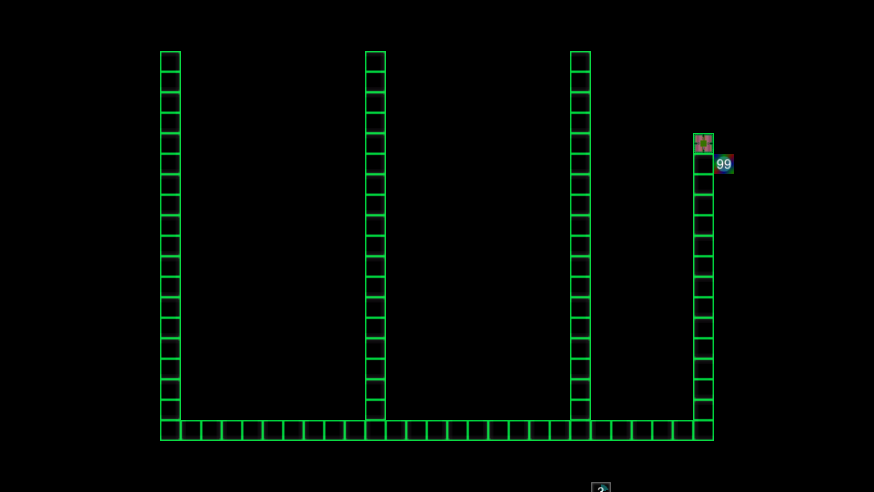
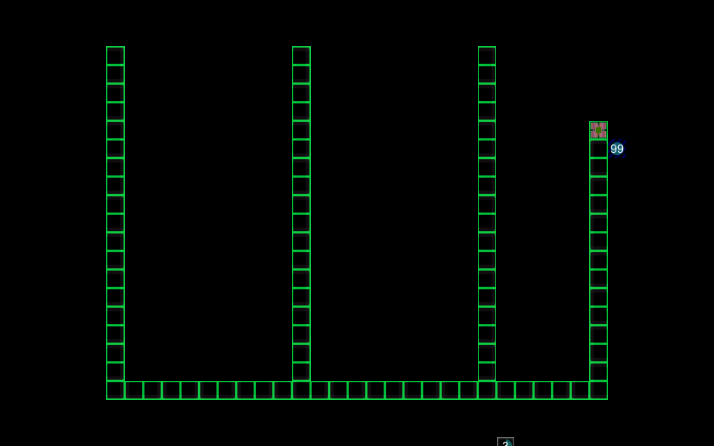
Resonant tower now has three different versions.  Still a bug with decaying towers not weakening their counterparts.

Changed region(s): [[0.1232, 0.0874, 0.8936, 0.9036], [0.6779, 0.9619, 0.7395, 1.0]]

diff --git a/Assets/Scripts/Effects/EffectsCompound.cs b/Assets/Scripts/Effects/EffectsCompound.cs
@@ -1,0 +1,242 @@
+using UnityEngine;
+using System.Collections;
+using System.Collections.Generic;
+using System.Linq;
+using Vexe.Runtime.Types;
+
+//contains effects which are triggered by multiple things and therefore don't really fit into another file
+//note that there are compound effects in other files.  this one is just meant for effects that dont neatly fit elsewhere
+
+//common base for all Resonant effects
+public abstract class BaseEffectResonant : BaseEffect, IEffectOnSpawned, IEffectDeath
+{
+    private static Dictionary<string, List<TowerScript>> resonanceDict; //static container that tracks resonance effects across all towers
+
+    //event to use for resonance changes
+    public delegate void resonanceChangeHandler();
+    public static event resonanceChangeHandler resonanceChangedEvent;
+
+    [Hide] public override TargetingType targetingType { get { return TargetingType.none; } }  //this effect should never be on a card, and thus should never be cast
+    [Hide] public override EffectType    effectType    { get { return EffectType.misc; } } //effect type
+
+    //convenience accessor to reference resonance across all towers with this argument and the same argument
+    protected int resonance
+    {
+        get
+        {
+            List<TowerScript> towersWithSameArgument = null;
+            resonanceDict.TryGetValue(argument, out towersWithSameArgument);
+
+            if (towersWithSameArgument == null)
+                return 0;
+            else
+                return towersWithSameArgument.Count;
+        }
+    }
+
+    public BaseEffectResonant()
+    {
+        if (resonanceDict == null)
+            resonanceDict = new Dictionary<string, List<TowerScript>>();
+    }
+
+    //add triggers for tower spawn/death to track how many towers with this effect are present
+    public override bool triggersAs(EffectType triggerType)
+    {
+        return base.triggersAs(triggerType) || (triggerType == EffectType.spawn) || (triggerType == EffectType.death);
+    }
+
+    //track resonance for new towers
+    public virtual void onTowerSpawned(TowerScript tower)
+    {
+        //list of all towers that already have this argument
+        List<TowerScript> towerList = null;
+        resonanceDict.TryGetValue(argument, out towerList);
+        if (towerList == null)
+            towerList = new List<TowerScript>();
+
+        //add the new tower to it, if it isnt there already
+        if (towerList.Contains(tower) == false)
+            towerList.Add(tower);
+
+        //make that list the new value in the dictionary
+        resonanceDict.Remove(argument); //note that this does nothing if the item is already absent
+        resonanceDict.Add(argument, towerList);
+
+        //fire the event, if it has listeners
+        if (resonanceChangedEvent != null)
+            resonanceChangedEvent();
+    }
+
+    //track resonance for dying towers
+    public virtual void onTowerDeath(TowerScript tower)
+    {
+        //list of all towers that already have this argument
+        List<TowerScript> towerList = null;
+        resonanceDict.TryGetValue(argument, out towerList);
+        if (towerList == null)
+            towerList = new List<TowerScript>();
+
+        //remove this tower from it
+        towerList.Remove(tower); //note that this does nothing if the item is already absent
+
+        //make that list the new value in the dictionary
+        resonanceDict.Remove(argument); //note that this does nothing if the item is already absent
+        resonanceDict.Add(argument, towerList);
+
+        //fire the event, if it has listeners
+        if (resonanceChangedEvent != null)
+            resonanceChangedEvent();
+    }
+
+    //we can ignore these triggers, since they dont apply
+    public virtual void onEnemySpawned(EnemyScript enemy) { }
+    public virtual void onEnemyDeath(EnemyScript e) { }
+}
+
+//tower attack gets X times stronger for each tower that has this effect with the same value for Y
+public class EffectResonantTowerAttackMult : BaseEffectResonant
+{
+    public override string Name { get { return "<" + argument + ">: " + strength + "x damage per other <" + argument + "> tower (" + (resonance - 1) + ")"; } }
+    public override string XMLName { get { return "ResonantTowerAttackMult"; } }
+
+    //private tracking
+    private TowerScript t;
+    private float attackBonus = 0.0f;
+
+    //add triggers for tower spawn/death to track how many towers with this effect are present
+    public override bool triggersAs(EffectType triggerType)
+    {
+        return base.triggersAs(triggerType) || (triggerType == EffectType.spawn) || (triggerType == EffectType.death);
+    }
+
+    //store a reference to the tower when it gets spawned
+    public override void onTowerSpawned(TowerScript tower)
+    {
+        t = tower;
+        base.onTowerSpawned(tower);
+    }
+
+    //register to hear about resonance changes
+    public EffectResonantTowerAttackMult() { resonanceChangedEvent += resonanceChanged; }
+
+    //called when resonance changes to recalculate the range
+    public void resonanceChanged()
+    {
+        //ignore if the tower has not spawned yet
+        if (t == null)
+            return;
+
+        //remove the old bonus
+        t.attackPower -= attackBonus;
+
+        //calculate the new bonus
+        float newAttackBonus = (t.attackPower * Mathf.Pow(strength, (resonance - 1))) - t.attackPower;
+
+        //add the new bonus
+        t.attackPower += newAttackBonus;
+
+        //track the change
+        attackBonus = newAttackBonus;
+
+        //update the tower UI
+        t.UpdateTooltipText();
+    }
+}
+
+//tower attack increases by X for each tower that has this effect with the same value for Y
+public class EffectResonantTowerAttackMod : BaseEffectResonant
+{
+    public override string Name { get { return "<" + argument + ">: +" + strength + " damage per other <" + argument + "> tower (" + (resonance - 1) + ")"; } }
+    public override string XMLName { get { return "ResonantTowerAttackMod"; } }
+
+    //private tracking
+    private TowerScript t;
+    private float attackBonus = 0.0f;
+
+    //add triggers for tower spawn/death to track how many towers with this effect are present
+    public override bool triggersAs(EffectType triggerType)
+    {
+        return base.triggersAs(triggerType) || (triggerType == EffectType.spawn) || (triggerType == EffectType.death);
+    }
+
+    //store a reference to the tower when it gets spawned
+    public override void onTowerSpawned(TowerScript tower)
+    {
+        t = tower;
+        base.onTowerSpawned(tower);
+    }
+
+    //register to hear about resonance changes
+    public EffectResonantTowerAttackMod() { resonanceChangedEvent += resonanceChanged; }
+
+    //called when resonance changes to recalculate the range
+    public void resonanceChanged()
+    {
+        //ignore if the tower has not spawned yet
+        if (t == null)
+            return;
+
+        //calculate the new range bonus
+        float newAttackBonus = strength * (resonance - 1);
+
+        //update range by removing the old bonus and adding the new one
+        t.attackPower -= attackBonus;
+        t.attackPower += newAttackBonus;
+
+        //track the change
+        attackBonus = newAttackBonus;
+
+        //update the tower UI
+        t.UpdateTooltipText();
+    }
+}
+
+//tower range gets longer by X for each tower that has this effect with the same value for Y
+public class EffectResonantTowerRangeMod : BaseEffectResonant
+{
+    public override string Name { get { return "<" + argument + ">: +" + strength + " range per other <" + argument + "> tower (" + (resonance - 1) + ")"; } }
+    public override string XMLName { get { return "ResonantTowerRangeMod"; } }
+
+    //private tracking
+    private TowerScript t;
+    private float rangeBonus = 0.0f;
+
+    //add triggers for tower spawn/death to track how many towers with this effect are present
+    public override bool triggersAs(EffectType triggerType)
+    {
+        return base.triggersAs(triggerType) || (triggerType == EffectType.spawn) || (triggerType == EffectType.death);
+    }
+
+    //store a reference to the tower when it gets spawned
+    public override void onTowerSpawned(TowerScript tower)
+    {
+        t = tower;
+        base.onTowerSpawned(tower);
+    }
+
+    //register to hear about resonance changes
+    public EffectResonantTowerRangeMod() { resonanceChangedEvent += resonanceChanged; }
+
+    //called when resonance changes to recalculate the range
+    public void resonanceChanged()
+    {
+        //ignore if the tower has not spawned yet
+        if (t == null)
+            return;
+
+        //calculate the new range bonus
+        float newRangeBonus = strength * (resonance - 1);
+
+        //update range by removing the old bonus and adding the new one
+        t.range -= rangeBonus;
+        t.range += newRangeBonus;
+
+        //track the change
+        rangeBonus = newRangeBonus;
+
+        //update the tower UI
+        t.UpdateTooltipText();
+        t.updateRangeImage();
+    }
+}

diff --git a/Assets/Scripts/Effects/EffectsEnemyDamaged.cs b/Assets/Scripts/Effects/EffectsEnemyDamaged.cs
@@ -264,41 +264,3 @@ public class EffectSecondaryBurst : BaseEffectEnemyDamaged
 
     public override void actualDamage(ref DamageEventData d) { }
 }
-
-//tower attack gets X times stronger for each tower that has this effect with the same value for Y
-public class EffectResonantTowerAttack : BaseEffectEnemyDamaged, IEffectOnSpawned, IEffectDeath
-{
-    private static Dictionary<string, ushort> resonanceDict = new Dictionary<string, ushort>(); //static container that tracks resonance effects across all towers
-    
-    //convenience accessor to reference resonance across all towers with this argument and the same argument
-    private ushort resonance
-    {
-        get { ushort resonance = 0; resonanceDict.TryGetValue(argument, out resonance); return resonance; }
-        set { resonanceDict.Remove(argument); resonanceDict.Add(argument, value); }
-    }
-
-    public override string Name { get { return "Resonant: " + strength.ToString("F2") + "x damage for every other " + argument + " on the field (current: " + resonance + ")"; } }
-    public override string XMLName { get { return "resonantTowerAttack"; } }
-
-    //add triggers for tower spawn/death to track how many towers with this effect are present
-    public override bool triggersAs(EffectType triggerType)
-    {
-        return base.triggersAs(triggerType) || (triggerType == EffectType.spawn) || (triggerType == EffectType.death);
-    }
-
-    //multiply damage on attack
-    public override void expectedDamage(ref DamageEventData d)
-    {
-        d.rawDamage = d.rawDamage * Mathf.Pow(strength, resonance - 1);
-        Debug.Log(d.rawDamage);
-    }
-
-    //track resonance changes when new towers with this effect spawn or die
-    public void onTowerSpawned(TowerScript tower) { resonance++; }
-    public void onTowerDeath(TowerScript t) { resonance--; }
-
-    //we can ignore these triggers, since they dont apply
-    public override void actualDamage(ref DamageEventData d) { }
-    public void onEnemySpawned(EnemyScript enemy) { }
-    public void onEnemyDeath(EnemyScript e) { }
-}

diff --git a/Assets/Scripts/Towers/TowerScript.cs b/Assets/Scripts/Towers/TowerScript.cs
@@ -558,7 +558,7 @@ public class TowerScript : BaseBehaviour
         wavesRemaining += d.waveBonus;
 
         //set scale of range image
-        rangeImage.gameObject.GetComponent<RectTransform>().localScale = new Vector3(range, range, 1.0f);
+        updateRangeImage();
 
         //if the upgrade consumes a slot, then count it
         if (noUpgradeCost == false)
@@ -567,6 +567,11 @@ public class TowerScript : BaseBehaviour
         //update text
         UpdateTooltipText();
         updateLifespanText();
+    }
+
+    public void updateRangeImage()
+    {
+        rangeImage.gameObject.GetComponent<RectTransform>().localScale = new Vector3(range, range, 1.0f);
     }
 
     //helpers to call ShowUpgradeTooltip since unity SendMessage() doesn't understand default parameters
@@ -744,7 +749,7 @@ public class TowerScript : BaseBehaviour
     }
 
     //these update text associated with the tower when things change
-    private void UpdateTooltipText()
+    public void UpdateTooltipText()
     {
         tooltipText.text =
             towerName + "\n" +
@@ -769,7 +774,7 @@ public class TowerScript : BaseBehaviour
         //disable the upgrade range
         upgradeRangeImage.enabled = false;
     }
-    private void updateLifespanText()
+    public void updateLifespanText()
     {
         //show any stats that indicate when the tower will die
         if ((effects == null) || (effects.propertyEffects.infiniteTowerLifespan == false))

diff --git a/Assets/Scripts/Effects/EffectTypeManagerScript.cs b/Assets/Scripts/Effects/EffectTypeManagerScript.cs
@@ -59,7 +59,9 @@ public class EffectTypeManagerScript : BaseBehaviour
             case "chainHit":                   ie = new EffectChainHit();                   break;
             case "damagePercent":              ie = new EffectDamagePercent();              break;
             case "reduceEnemyEffectOnDamage":  ie = new EffectReduceEnemyEffectOnDamage();  break;
-            case "resonantTowerAttack":        ie = new EffectResonantTowerAttack();        break;
+            case "ResonantTowerAttackMult":    ie = new EffectResonantTowerAttackMult();    break;
+            case "ResonantTowerAttackMod":     ie = new EffectResonantTowerAttackMod();     break;
+            case "ResonantTowerRangeMod":      ie = new EffectResonantTowerRangeMod();      break;
             case "secondaryBurst":             ie = new EffectSecondaryBurst();             break;
             case "splashDamage":               ie = new EffectSplashDamage();               break;
 

diff --git a/Assets/Scripts/Effects/EffectInterfaces.cs b/Assets/Scripts/Effects/EffectInterfaces.cs
@@ -32,6 +32,7 @@ public enum TargetingType
 /// everyRound      : triggers once every round (uses IEffectInstant)
 /// instant         : triggers instantly without the need for a target
 /// meta            : targets another effect.  These usually trigger in the same manner as their target
+/// misc            : does not fit cleanly into any category (ex: any of the Resonant effects that trigger under multiple conditions)
 /// overcharge      : triggers when a tower attacks with at least one full point of overcharge, before enemyDamaged effects
 /// periodic        : triggers on every update() call
 /// property        : is never triggered.  instead, other code tests whether or not it exists on a given object and behave accordingly
@@ -51,6 +52,7 @@ public enum EffectType
     everyRound,
     instant,
     meta,
+    misc,
     overcharge,
     periodic,
     property,

diff --git a/Assets/Scripts/UI/CameraControlScript.cs b/Assets/Scripts/UI/CameraControlScript.cs
@@ -137,10 +137,7 @@ public class CameraControlScript : BaseBehaviour
                 FileInfo levelFile = new FileInfo(levelName);
 
                 if (screenshotFile.LastWriteTime > levelFile.LastWriteTime)
-                {
-                    Debug.Log("Did not update screenshot because it is newer than the level file was last modified");
                     yield break;
-                }
             }
 
             //take the screenshot
@@ -151,6 +148,7 @@ public class CameraControlScript : BaseBehaviour
             Application.CaptureScreenshot(screenshotName);
             yield return null;
             UICanvas.enabled = true;
+            Debug.Log("level thumbnail updated.");
         }
         else
         {
